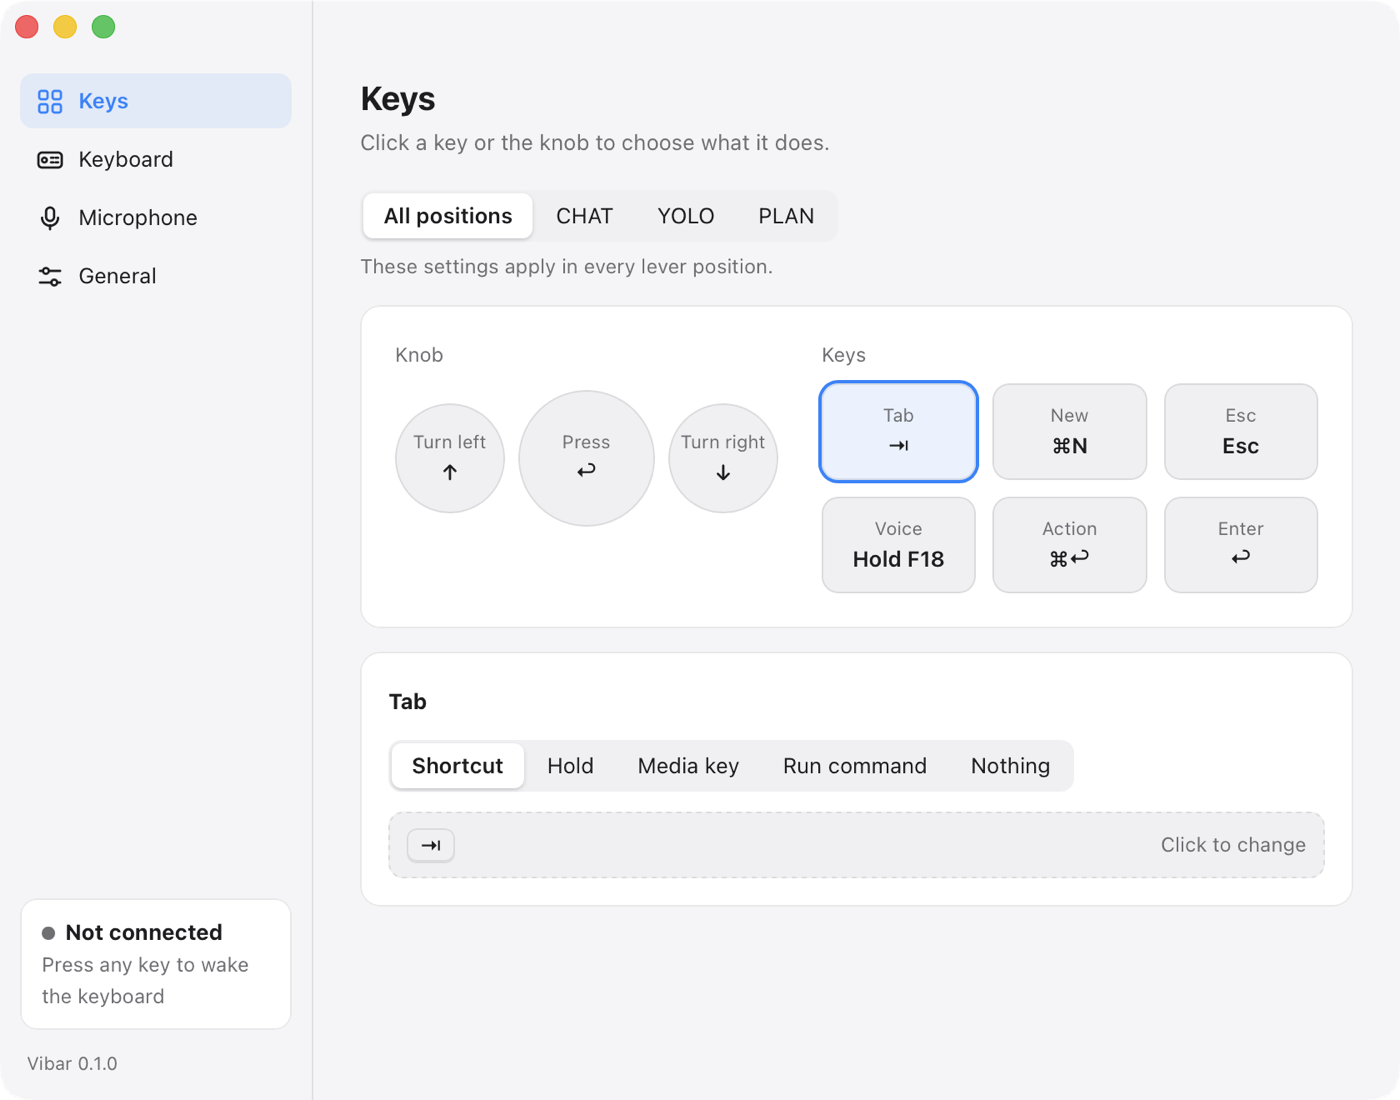
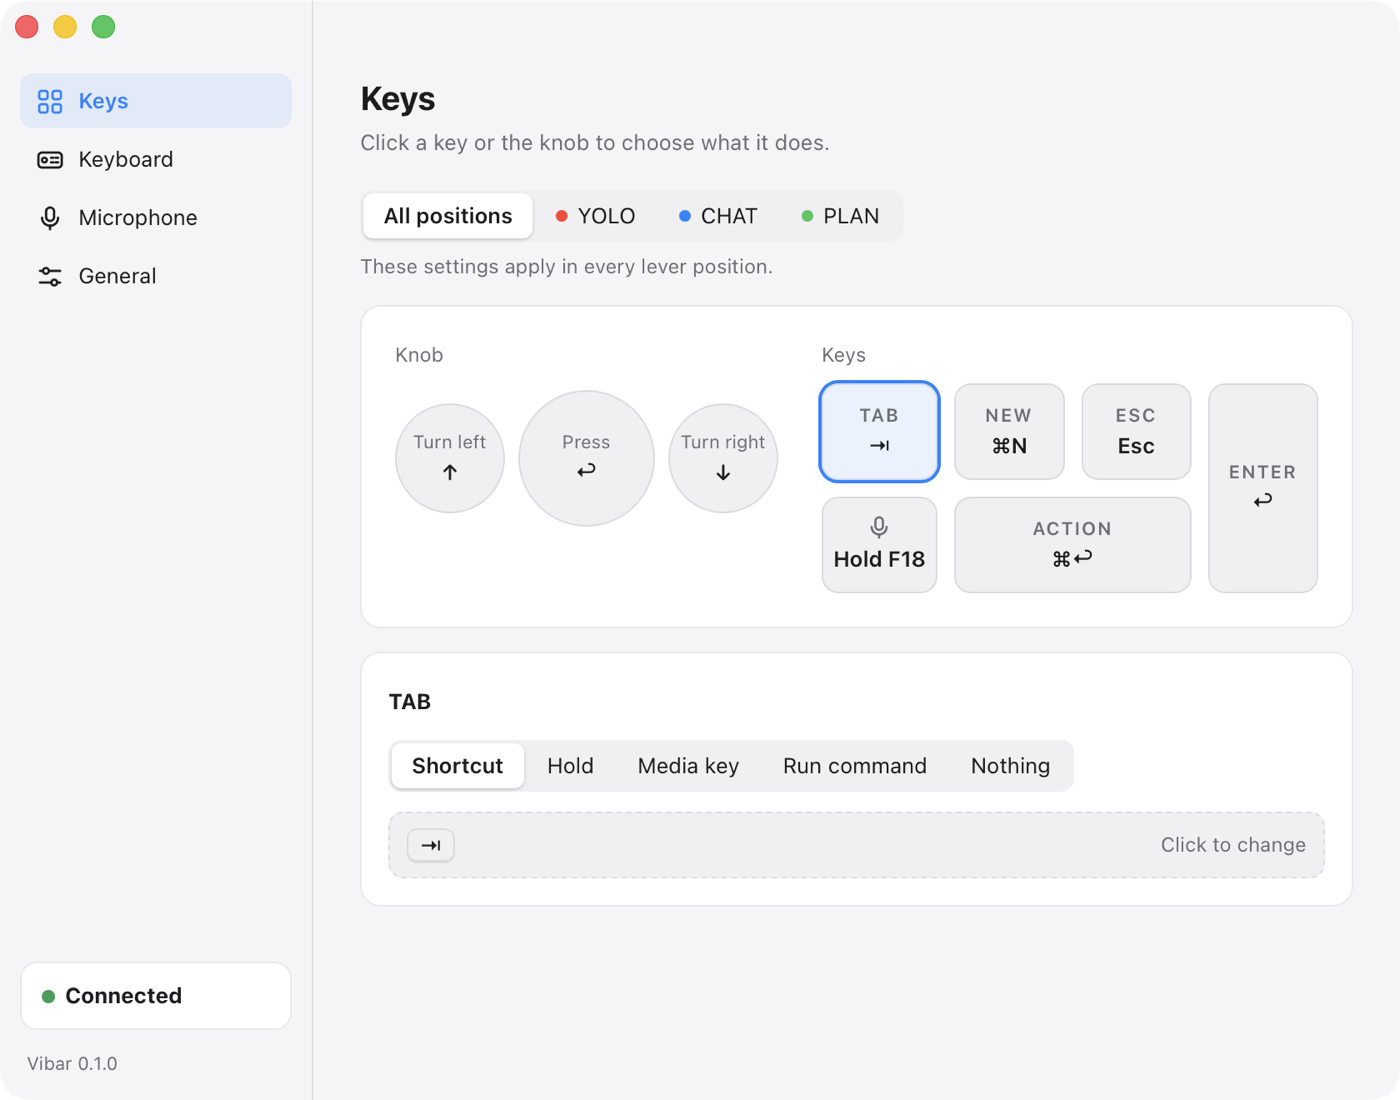
Draw the settings keyboard like the real one
Checked against the maker's product photo, the board in the Keys page was
wrong in several ways:

- Keycap legends are capital letters, TAB NEW ESC ACTION ENTER, and the
  voice key carries a microphone symbol, not text.
- ENTER is a tall key on the right and ACTION is a wide key.
- The lever lights read YOLO, CHAT, PLAN from top to bottom, in red, blue
  and green. The tabs now follow that order and colours.

docs/hardware.md records the physical layout and the legends, and
design-principles.md and AGENTS.md say the drawing must mirror the
keyboard. The screenshots in the READMEs are retaken.

diff --git a/ui/settings.html b/ui/settings.html
@@ -74,11 +74,23 @@ input[type=text] { width: 100%; }
 .board { display: grid; grid-template-columns: auto 1fr; gap: 26px; align-items: start; padding: 20px; }
 .board .cap { color: var(--sub); font-size: 12px; margin-bottom: 8px; }
 .knob { display: flex; gap: 8px; align-items: center; margin-top: 12px; }
-.keys { display: grid; grid-template-columns: repeat(3, 1fr); gap: 10px; }
+/* Same arrangement as the keyboard: ENTER is a tall key on the right, ACTION is a wide key. */
+.keys { display: grid; grid-template-columns: repeat(4, 1fr); grid-template-rows: repeat(2, auto); gap: 10px; }
+.keys .k-tab { grid-column: 1; grid-row: 1; }
+.keys .k-new { grid-column: 2; grid-row: 1; }
+.keys .k-esc { grid-column: 3; grid-row: 1; }
+.keys .k-enter { grid-column: 4; grid-row: 1 / span 2; }
+.keys .k-voice { grid-column: 1; grid-row: 2; }
+.keys .k-action { grid-column: 2 / span 2; grid-row: 2; }
 .in { position: relative; border: 1px solid var(--line); background: var(--key); border-radius: 10px; min-height: 58px;
   padding: 8px 6px; text-align: center; display: flex; flex-direction: column; justify-content: center; gap: 1px; }
 .in:hover { background: var(--key-hover); }
 .in .n { font-size: 11px; color: var(--sub); }
+/* The legend printed on the keycap: capital letters, or the microphone symbol. */
+.keys .in .n { font-size: 11px; font-weight: 600; letter-spacing: .08em; }
+.keys .in .n svg { width: 15px; height: 15px; vertical-align: -3px; fill: none; stroke: currentColor; stroke-width: 1.4; stroke-linecap: round; }
+.dotc { display: inline-block; width: 7px; height: 7px; border-radius: 50%; margin-right: 6px; vertical-align: 1px; }
+.dotc.yolo { background: #ff3b30; } .dotc.chat { background: #0a84ff; } .dotc.plan { background: #34c759; }
 .in .v { font-size: 13px; font-weight: 600; white-space: nowrap; overflow: hidden; text-overflow: ellipsis; }
 .in.round { width: 66px; min-height: 66px; border-radius: 50%; padding: 4px; }
 .in.big { width: 82px; min-height: 82px; }
@@ -139,12 +151,12 @@ kbd { display: inline-block; min-width: 24px; padding: 1px 7px; margin-right: 4p
         <div>
           <div class="cap" data-i18n="cap_keys"></div>
           <div class="keys">
-            <button class="in" data-in="tab"><span class="n">Tab</span><span class="v"></span></button>
-            <button class="in" data-in="new"><span class="n">New</span><span class="v"></span></button>
-            <button class="in" data-in="esc"><span class="n">Esc</span><span class="v"></span></button>
-            <button class="in" data-in="voice"><span class="n" data-i18n="in_voice"></span><span class="v"></span></button>
-            <button class="in" data-in="action"><span class="n">Action</span><span class="v"></span></button>
-            <button class="in" data-in="enter"><span class="n">Enter</span><span class="v"></span></button>
+            <button class="in k-tab" data-in="tab"><span class="n">TAB</span><span class="v"></span></button>
+            <button class="in k-new" data-in="new"><span class="n">NEW</span><span class="v"></span></button>
+            <button class="in k-esc" data-in="esc"><span class="n">ESC</span><span class="v"></span></button>
+            <button class="in k-enter" data-in="enter"><span class="n">ENTER</span><span class="v"></span></button>
+            <button class="in k-voice" data-in="voice" data-i18n-title="in_voice"><span class="n"><svg viewBox="0 0 16 16" aria-hidden="true"><rect x="5.6" y="1.5" width="4.8" height="8" rx="2.4"/><path d="M3.2 7.6a4.8 4.8 0 0 0 9.6 0M8 12.4v2.1"/></svg></span><span class="v"></span></button>
+            <button class="in k-action" data-in="action"><span class="n">ACTION</span><span class="v"></span></button>
           </div>
         </div>
       </div>
@@ -205,7 +217,10 @@ const SLEEP = [600, 1800, 3600, 14400, 43200];
 const MOD_SYM = { cmd: "⌘", shift: "⇧", alt: "⌥", ctrl: "⌃" };
 const TYPES = ["key", "hold", "media", "shell", "none"];
 const LABEL_KEY = { knob_ccw: "lbl_knob_ccw", knob_cw: "lbl_knob_cw", knob_press: "lbl_knob_press", voice: "lbl_voice" };
-const LITERAL_LABEL = { tab: "Tab", new: "New", esc: "Esc", action: "Action", enter: "Enter" };
+// Keycap legends as printed on the keyboard
+const LITERAL_LABEL = { tab: "TAB", new: "NEW", esc: "ESC", action: "ACTION", enter: "ENTER" };
+// Lever positions in the order of the indicator lights on the keyboard, top to bottom
+const LEVER_ORDER = ["yolo", "chat", "plan"];
 
 let cfg = { bindings: {}, modes: {} };
 let st = {};
@@ -231,6 +246,7 @@ function applyStrings() {
   document.documentElement.lang = window.__lang === "zh-CN" ? "zh-CN" : "en";
   document.title = t("page_title");
   $$("[data-i18n]").forEach(el => { el.textContent = t(el.dataset.i18n); });
+  $$("[data-i18n-title]").forEach(el => { el.title = t(el.dataset.i18nTitle); });
   $$("[data-i18n-ph]").forEach(el => { el.placeholder = t(el.dataset.i18nPh); });
   $("#g-version").textContent = t("about_version", { v: window.__v });
   const lang = $("#g-lang");
@@ -310,9 +326,10 @@ function keycaps(value) {
 
 function renderTabs() {
   const box = $("#layer-tabs"); box.innerHTML = "";
-  for (const m of ["default", "chat", "yolo", "plan"]) {
+  for (const m of ["default", ...LEVER_ORDER]) {
     const b = document.createElement("button");
-    b.textContent = modeName(m);
+    if (m !== "default") { const d = document.createElement("i"); d.className = "dotc " + m; b.appendChild(d); }
+    b.appendChild(document.createTextNode(modeName(m)));
     if (m === layer) b.classList.add("on");
     if (m === st.mode) { const c = document.createElement("span"); c.className = "cur"; c.textContent = t("tag_current"); b.appendChild(c); }
     b.onclick = () => { layer = m; render(); };

diff --git a/src/settings.rs b/src/settings.rs
@@ -377,6 +377,7 @@ mod tests {
         let html = page();
         let en = strings("en");
         let mut asked: Vec<&str> = after_all(&html, "data-i18n=\"");
+        asked.extend(after_all(&html, "data-i18n-title=\""));
         asked.extend(t_call_keys(&html));
         for key in asked {
             // `t("media_" + k)` is a family prefix, checked below

diff --git a/docs/hardware.md b/docs/hardware.md
@@ -15,22 +15,39 @@ Notes on the ReAI-Vibe-Board as seen by Vibar. Sources: the maker's [website](ht
 
 ## Inputs
 
+### Physical layout
+
+From the maker's product photo. The settings window draws the same arrangement.
+
+```
+              TAB   NEW   ESC   ┌───────┐      ┌──────────┐
+   (knob)                       │ ENTER │      │  YOLO    │  red
+                MIC  [ ACTION ] │       │      │  CHAT    │  blue
+                                └───────┘      │  PLAN    │  green
+                                               └──────────┘  lever, toggle with a red cover
+```
+
+- The knob is on the left. ENTER is a tall key on the right, ACTION is a wide key, and the voice key carries a **microphone symbol, not text**. The other keycaps read **TAB, NEW, ESC, ACTION, ENTER** in capital letters.
+- The lever has three lit labels, top to bottom: **YOLO, CHAT, PLAN**.
+
+### Input slots
+
 Twelve input slots, reported by the SDK as `key_index` 0 to 11. Over Bluetooth every press arrives as two events: *pressed* (source Consumer, a usage code `0x0F01` to `0x0F0B`) and *released* (source Gatt, value 0). There are no repeat events while held; time a long press yourself.
 
-| key_index | Firmware label | Physical input | Vibar name |
-|---|---|---|---|
-| 0 | volume phase A | knob, one direction | `knob_ccw` (until calibrated) |
-| 1 | volume phase B | knob, other direction | `knob_cw` (until calibrated) |
-| 2 | volume press | knob pressed | `knob_press` |
-| 3 | Tab | key | `tab` |
-| 4 | New | key | `new` |
-| 5 | Esc | key | `esc` |
-| 6 | AI voice | key. Also reported as a separate `AiVoiceKey` event. | `voice` |
-| 7 | Action | key | `action` |
-| 8 | Enter | key | `enter` |
-| 9 | YOLO lever | lever moved to YOLO | handled through `ModeChange` |
-| 10 | PLAN lever | lever moved to PLAN | handled through `ModeChange` |
-| 11 | CHAT lever | slot exists. Moving back to CHAT produced **no key event** in our tests, only `ModeChange(CHAT)`. | handled through `ModeChange` |
+| key_index | Firmware label | Keycap legend | Physical input | Vibar name |
+|---|---|---|---|---|
+| 0 | volume phase A | none | knob, one direction | `knob_ccw` (until calibrated) |
+| 1 | volume phase B | none | knob, other direction | `knob_cw` (until calibrated) |
+| 2 | volume press | none | knob pressed | `knob_press` |
+| 3 | Tab | TAB | key | `tab` |
+| 4 | New | NEW | key | `new` |
+| 5 | Esc | ESC | key | `esc` |
+| 6 | AI voice | microphone symbol | key. Also reported as a separate `AiVoiceKey` event. | `voice` |
+| 7 | Action | ACTION | wide key | `action` |
+| 8 | Enter | ENTER | tall key | `enter` |
+| 9 | YOLO lever | YOLO | lever moved to YOLO | handled through `ModeChange` |
+| 10 | PLAN lever | PLAN | lever moved to PLAN | handled through `ModeChange` |
+| 11 | CHAT lever | CHAT | slot exists. Moving back to CHAT produced **no key event** in our tests, only `ModeChange(CHAT)`. | handled through `ModeChange` |
 
 Notes:
 

diff --git a/docs/design-principles.md b/docs/design-principles.md
@@ -44,6 +44,7 @@ All icons are produced by `scripts/make-icons.py` from one geometry definition. 
 
 ## Settings window
 
+- **Draw the keyboard as it is.** The board in the Keys page copies the real arrangement (knob on the left, tall ENTER, wide ACTION) and the legends printed on the keycaps: capital letters TAB, NEW, ESC, ACTION, ENTER, and a microphone symbol for the voice key. Lever tabs follow the order of the lit labels on the keyboard, YOLO, CHAT, PLAN, with their colours. A user should never have to translate between the screen and the keyboard in their hands. The reference is `docs/hardware.md`.
 - Sidebar of four pages with icons, status card and version at the bottom.
 - **Autosave.** No Save button. A small "Saved" fades in near the layer tabs.
 - A layer other than "All positions" shows inherited keys dimmed and overridden keys with a blue dot, with a *Follow All positions* button to drop an override.

diff --git a/AGENTS.md b/AGENTS.md
@@ -32,6 +32,7 @@ There is no GitHub Actions workflow on purpose. `scripts/ci.sh` is the CI. Run i
 6. **Icons come from `scripts/make-icons.py`.** Edit the script, regenerate, commit both.
 7. **The repository URL lives only in `Cargo.toml`.** Rust reads `env!("CARGO_PKG_REPOSITORY")`, the page and bundle script read it from there.
 8. **The sink for microphone audio is installed before the SDK `start()`.**
+9. **The board drawing in the settings page mirrors the real keyboard** (arrangement, capital keycap legends, microphone symbol on the voice key, lever order YOLO, CHAT, PLAN). Check `docs/hardware.md` before changing it.
 
 ## Working safely on this machine
 
